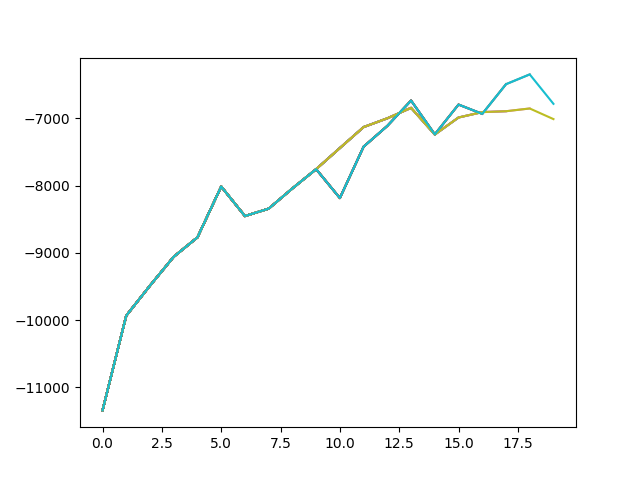
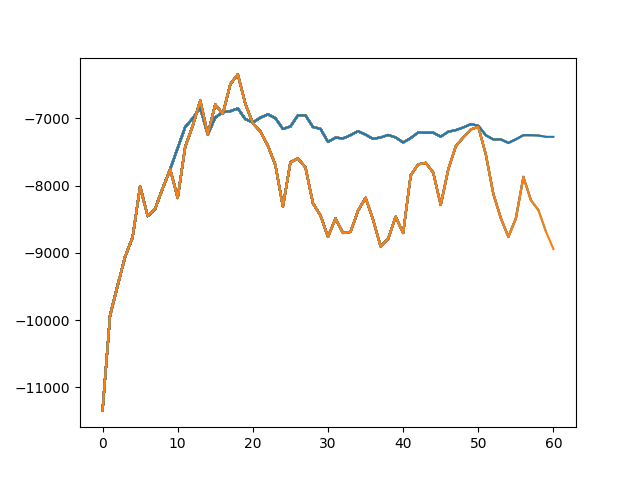
changed models to be dashed names

diff --git a/DQAgent.py b/DQAgent.py
@@ -36,7 +36,7 @@ class DQAgent:
             return
         self.targetModel.set_weights(self.actionModel.get_weights())
         self.updateTime = 1000
-        self.targetModel.save_weights(f"models/Model-{datetime.now()}.weights.h5")
+        self.targetModel.save_weights(f"models/Model-{datetime.now().strftime("%d-%m-%Y-%H-%M")}.weights.h5")
         self.actionModel.save_weights(f"models/Model-latest.weights.h5")
 
     def reset(self):